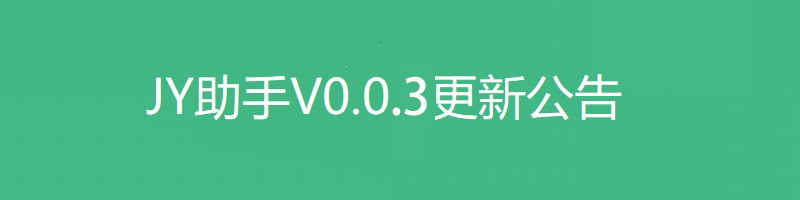
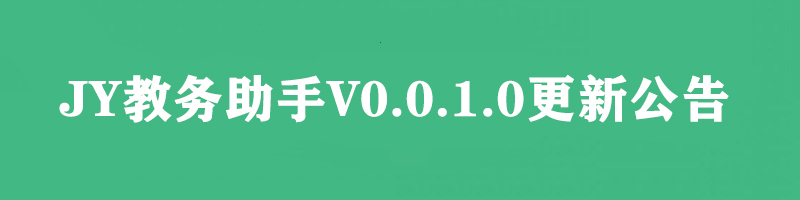
完成校历

Changed region(s): [[0.0625, 0.36, 0.9062, 0.63]]

diff --git a/src/components/index/mine/calendar.vue b/src/components/index/mine/calendar.vue
@@ -14,7 +14,7 @@
   </div>
 </template>
 <script>
-// import CalendarData from '../../../api/CalendarData'
+
 export default {
   name: 'calendar',
   data () {
@@ -35,7 +35,7 @@ export default {
           dateRange: '2019.9.28-2019.9.29',
           isRest: false,
           showDate: '2019.9.28',
-          showText: '补课'
+          showText: '调休'
         }, {
           dateRange: '2020.1.1',
           isRest: true,
@@ -124,7 +124,7 @@ export default {
     }
   },
   mounted () {
-    this.$emit('changeNavAndTab', {tabShow: false, showId: 2, title: '2019-2020学年校历', leftShow: true, rightShow: false, leftLink: './mine'})
+    this.$emit('changeNavAndTab', {tabShow: false, showId: 2, title: '2019-2020学年日历', leftShow: true, rightShow: false, leftLink: './mine'})
     this.configToData()
   }
 }

diff --git a/src/components/index/mine/mine.vue b/src/components/index/mine/mine.vue
@@ -70,7 +70,7 @@ export default {
       })
     },
     uploadNotify: function () {
-      this.popout('v0.0.3更新公告', '<p>【新增】数据库存储服务，让你在教务系统不能使用时亦可以查到自己的成绩</p>')
+      this.popout('v0.0.1.0更新公告', '<p>【新增】2019-2020学年日历，让你掌握自己的假期</p>')
     },
     openPage: function (url) {
       window.open(url, '_blank')
@@ -88,7 +88,7 @@ export default {
       let res = await request.unbind()
       if (res.code === 0) {
         this.$dialog.toast({
-          mes: '解绑成功，再见！',
+          mes: '解绑成功，期待您的下次使用！',
           timeout: 1500,
           icon: 'success',
           callback: () => {
